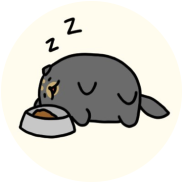
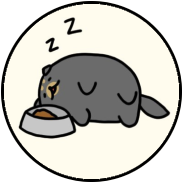
update raw-essets
add stroke!
now it works!

Changed region(s): [[0.0, 0.0, 1.0, 1.0]]

diff --git a/src/extraSettings.js b/src/extraSettings.js
@@ -9,7 +9,7 @@ let extraScore = 1;
 // 무적 모드: true를 false로 변경
 let wuDi = true;
 
-// 첫 번째 과일: 수정숫자는 0-10, 0은 포도, 9zq는 수박 반 개
+// 첫 번째 과일: 수정숫자는 0-10, 0은 포도, 9는 수박 반 개
 let firstFruit = 0;
 
 // 과일 합성 반전: false에서 true로 변경
